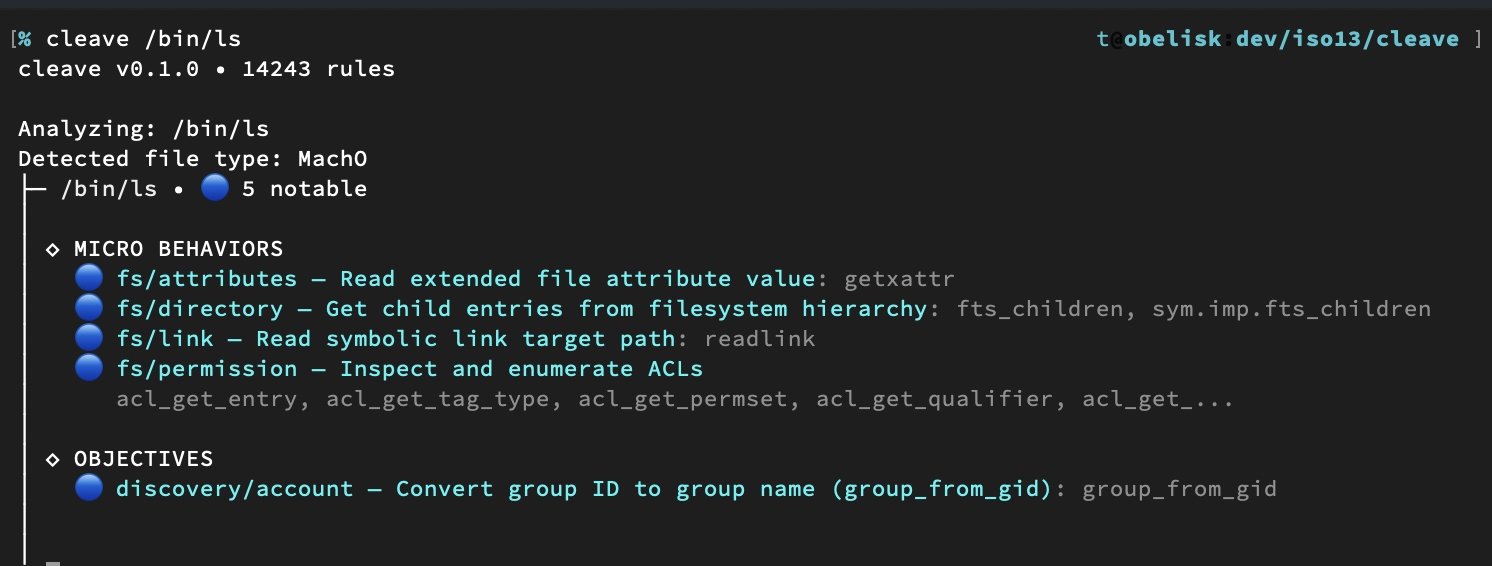
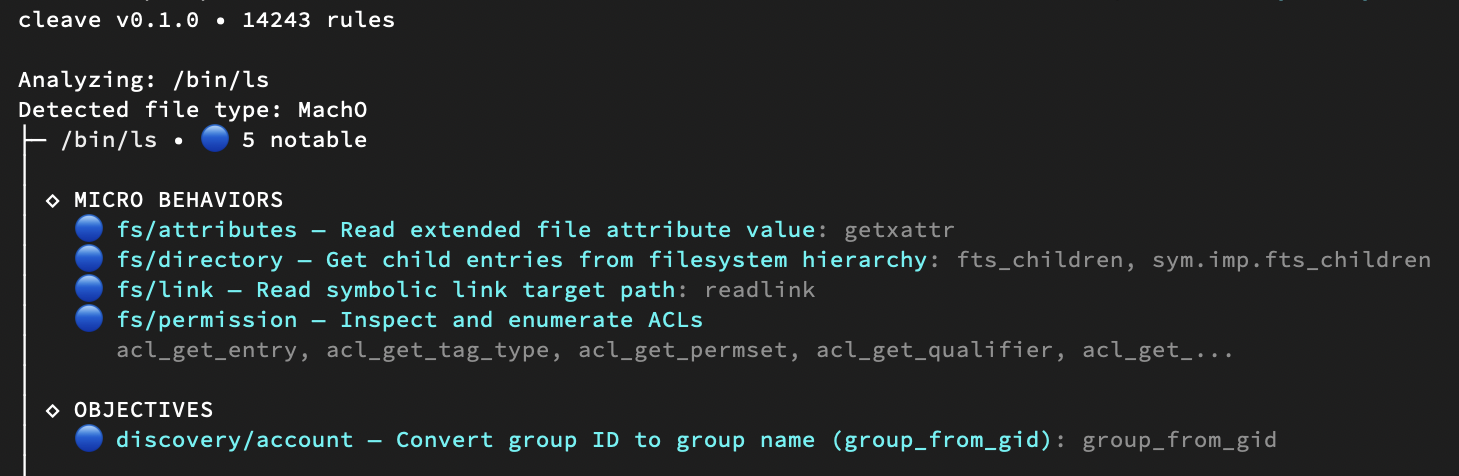
update texts

diff --git a/src/cache.rs b/src/cache.rs
@@ -192,6 +192,64 @@ pub(crate) fn mapper_cache_path() -> Result<PathBuf> {
     Ok(cache_dir()?.join(cache_key))
 }
 
+/// Rule stats stored in a tiny cache file for fast banner display.
+/// Layout: trait_count(8) + composite_count(8) + timestamp(8) = 24 bytes
+#[allow(dead_code)] // Used by binary
+const STATS_CACHE_SIZE: usize = 24;
+
+/// Get the path to the rule stats cache file
+pub(crate) fn rule_stats_cache_path() -> Result<PathBuf> {
+    Ok(cache_dir()?.join("rule-stats.bin"))
+}
+
+/// Save trait and composite counts to stats cache.
+/// Called when mapper cache is saved.
+pub(crate) fn save_rule_stats(trait_count: usize, composite_count: usize) -> Result<()> {
+    use std::io::Write;
+
+    let path = rule_stats_cache_path()?;
+    let timestamp = cache_timestamp()?
+        .duration_since(SystemTime::UNIX_EPOCH)
+        .context("Invalid timestamp")?
+        .as_secs();
+
+    let mut file = fs::File::create(&path)?;
+    file.write_all(&(trait_count as u64).to_le_bytes())?;
+    file.write_all(&(composite_count as u64).to_le_bytes())?;
+    file.write_all(&timestamp.to_le_bytes())?;
+    Ok(())
+}
+
+/// Peek trait and composite counts from stats cache.
+/// Returns None if cache is missing, invalid, or stale.
+#[allow(dead_code)] // Used by binary
+#[must_use]
+pub(crate) fn peek_rule_stats() -> Option<(usize, usize)> {
+    use std::io::Read;
+
+    let path = rule_stats_cache_path().ok()?;
+    let mut file = fs::File::open(&path).ok()?;
+    let mut buf = [0u8; STATS_CACHE_SIZE];
+    file.read_exact(&mut buf).ok()?;
+
+    let trait_count = u64::from_le_bytes(buf[0..8].try_into().ok()?) as usize;
+    let composite_count = u64::from_le_bytes(buf[8..16].try_into().ok()?) as usize;
+    let cached_timestamp = u64::from_le_bytes(buf[16..24].try_into().ok()?);
+
+    // Validate timestamp matches current traits
+    let current_timestamp = cache_timestamp()
+        .ok()?
+        .duration_since(SystemTime::UNIX_EPOCH)
+        .ok()?
+        .as_secs();
+
+    if cached_timestamp != current_timestamp {
+        return None;
+    }
+
+    Some((trait_count, composite_count))
+}
+
 /// Get the reverse engineering tool analysis cache directory
 /// Returns: {cache_dir}/re/
 pub(crate) fn re_cache_dir() -> Result<PathBuf> {

diff --git a/src/capabilities/mapper/loader_directory.rs b/src/capabilities/mapper/loader_directory.rs
@@ -182,6 +182,12 @@ impl super::CapabilityMapper {
                                             anyhow::anyhow!("Regex errors: {:?}", errs)
                                         })?;
 
+                                    // Ensure rule stats are up-to-date for banner display
+                                    let _ = crate::cache::save_rule_stats(
+                                        cache_data.trait_definitions.len(),
+                                        cache_data.composite_rules.len(),
+                                    );
+
                                     return Ok(Self {
                                         symbol_map: cache_data.symbol_map,
                                         trait_definitions: cache_data.trait_definitions,
@@ -2335,6 +2341,13 @@ impl super::CapabilityMapper {
                                 bytes.len(),
                                 cache_path
                             );
+                            // Also save rule stats for fast banner display
+                            if let Err(e) = crate::cache::save_rule_stats(
+                                trait_definitions.len(),
+                                composite_rules.len(),
+                            ) {
+                                tracing::warn!("Failed to save rule stats: {}", e);
+                            }
                         }
                     }
                     Err(e) => {

diff --git a/src/main.rs b/src/main.rs
@@ -222,13 +222,17 @@ fn main() -> Result<()> {
 
     // Print banner to stderr (status info never goes to stdout) - only in terminal mode
     if format == cli::OutputFormat::Terminal {
-        // Try to show rule count if cache is available (fast header peek)
+        // Try to show combined rule count from all sources (YARA + traits + composites)
         let enable_third_party = !disabled.third_party;
-        if let Some(rule_count) = yara_engine::peek_cache_rule_count(enable_third_party) {
+        let yara_count = yara_engine::peek_cache_rule_count(enable_third_party).unwrap_or(0);
+        let (trait_count, composite_count) = cache::peek_rule_stats().unwrap_or((0, 0));
+        let total_rules = yara_count + trait_count + composite_count;
+
+        if total_rules > 0 {
             eprintln!(
                 "cleave v{} • {} rules\n",
                 env!("CARGO_PKG_VERSION"),
-                rule_count
+                total_rules
             );
         } else {
             eprintln!(

diff --git a/README.md b/README.md
@@ -51,9 +51,10 @@ Rules follow [MBC (Malware Behavior Catalog)](https://github.com/MBCProject/mbc-
 
 Confidence ranges from 1.0 (AST-level certainty) to heuristic matches (0.7–0.9). Criticality is independent of confidence—a socket import is certain but baseline; a Telegram API endpoint is uncertain but hostile.
 
-## Output
+## Competition
 
-Structured JSON for integration with threat intel platforms, SOAR systems, or ML pipelines. Terminal output is color-coded: 🔴 hostile, 🟡 suspicious, 🔵 notable, ⚪ baseline.
+- cleave was created by the author of [malcontent](https://github.com/chainguard-dev/malcontent): in comparison, cleave offers twice the rule coverage, adds AST parsing, binary reverse engineering, proper handling of Rust/Go strings, and much better encoded payload detection.
+- [capa](https://github.com/mandiant/capa) was our original inspiration. cleave is much faster, with 15X the rule coverage, and significantly broader file format support (such as machO, Python, Shell, etc). 
 
 ## Under the Hood
 
